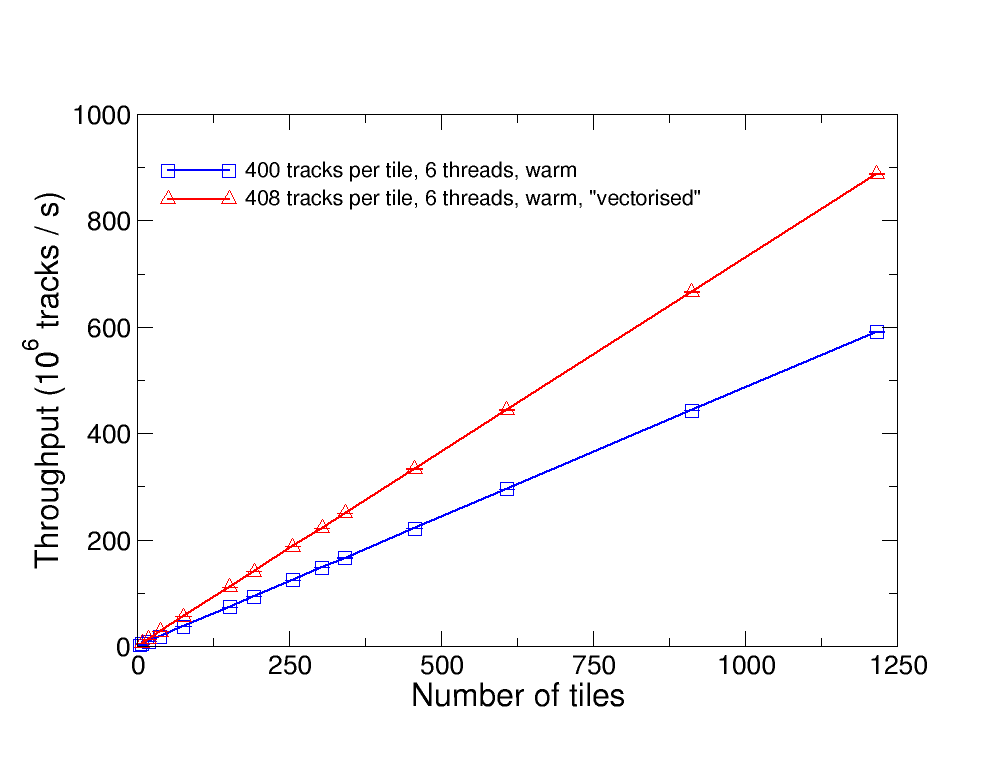
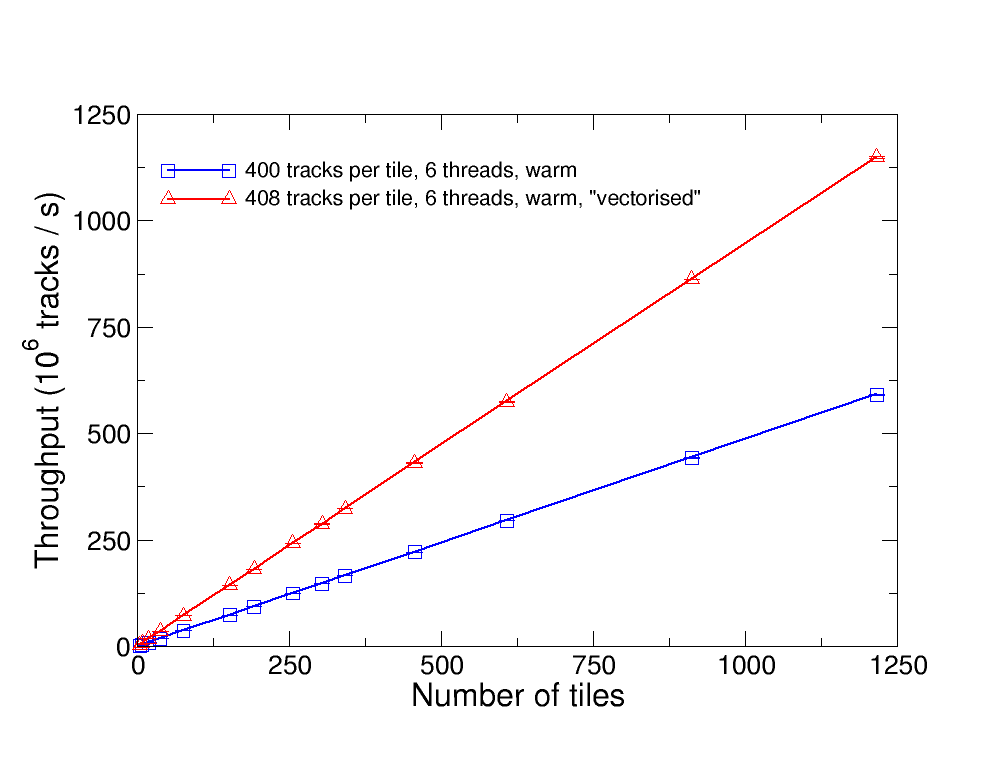
Update vectorisation benchmarks.

diff --git a/README.md b/README.md
@@ -494,23 +494,62 @@ an unrolled fashion. From the benchmarking paper linked to above, it would
 appear that an unroll factor of 8 would be most appropriate. With this in
 mind, the bechmark code was updated to require track numbers that are multiples
 of 6 and 8 only, i.e. divisible over the hardware threads on each IPU and
-possible to be unrolled by a factor of 8. The following plot shows a benchmark
-comparison of 400 tracks per tile following a warmup run, to 408 tracks per tile
-run in the _vectorised_ fashion.
+possible to be unrolled by a factor of 8.
+
+The multiplication function poses a problem for vectorisation since both
+tensors have the same storage order. Since its not possible to easily
+transpose one of them on the vertex, we apply a manual optimisation by
+completely unrolling the inner-most loop, which is of fixed size, i.e.:
+
+```cpp
+
+for (int i=0; i<4; ++i)
+{
+    for (int j=0; j<size; ++j)
+    {
+        out[i][j] = in0[i][0] * in1[0][j];
+        for (int k=1; k<4; ++k)
+        {
+            out[i][j] += in0[i][k] * in1[k][j];
+        }
+    }
+}
+```
+
+becomes
+
+```cpp
+for (int i=0; i<4; ++i)
+{
+    for (int j=0; j<size; ++j)
+    {
+        out[i][j] = in0[i][0] * in1[0][j]
+                  + in0[i][1] * in1[1][j]
+                  + in0[i][2] * in1[2][j]
+                  + in0[i][3] * in1[3][j];
+    }
+}
+```
+
+The following plot shows a benchmark comparison of 400 tracks per tile following
+a warmup run, to 408 tracks per tile run in the _vectorised_ fashion.
 
 ![Benchmarks IPU (threaded, warm, vectorised).](https://github.com/lohedges/trackr/raw/main/benchmarks/benchmark_ipu_threaded_warm_vector.png)
 
 When running on all 1216 tiles of the IPU, the peak throughput now reaches
-approximately 890 million tracks per second.
+approximately 1.15 billion tracks per second.
 
 Breaking down the peformance contribution of the different vectorisation tricks
 gives some surprising results.
 
 * The use of `__restrict` makes no difference whatsover.
-* Loop unrolling slows the code (slightly), i.e. the optimum unroll factor is 1.
-* All of the performance gain seems to come from type aliasing and performing
+* Loop unrolling generally slows the code (slightly), i.e. the optimum unroll
+factor is 1. However, manually unrolling the inner-most multiplication loop
+does produce a big performance gain.
+* Additional performance gain seem to come from type aliasing and performing
 the matrix operations on a per-row basis. Aliasing as `float2 *` has a marginal
-benefit over `float *`.
+benefit over `float *`. (Or performing no aliasing and just operating on the
+original tensors row-by row.)
 * Using an optimisation level of `-O3` now gives marginally better performance
 than `-O2`.
 
@@ -518,5 +557,5 @@ Updated IPU/CPU performance comparison:
 
 | **Device**    | **Throughput per watt** | **Throughput per dollar** |
 |---------------|-------------------------|---------------------------|
-| Graphcore GC2 | 74.17 x 10^5 tracks / s | 10.97 x 10^4 tracks / s   |
+| Graphcore GC2 | 95.83 x 10^5 tracks / s | 14.18 x 10^4 tracks / s   |
 | i7-9750H      |  5.77 x 10^5 tracks / s |  6.50 x 10^4 tracks / s   |
